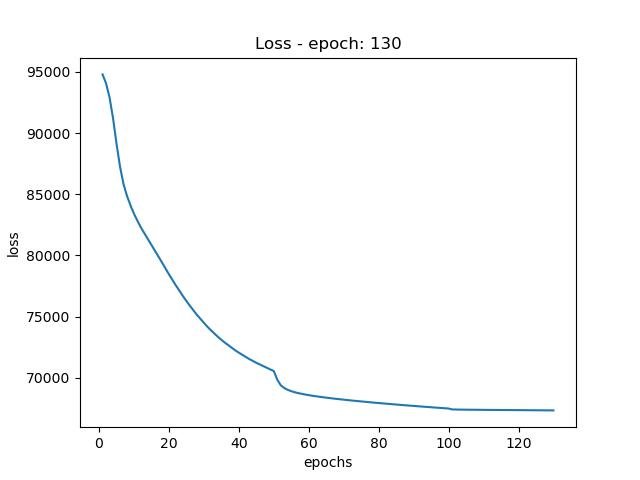
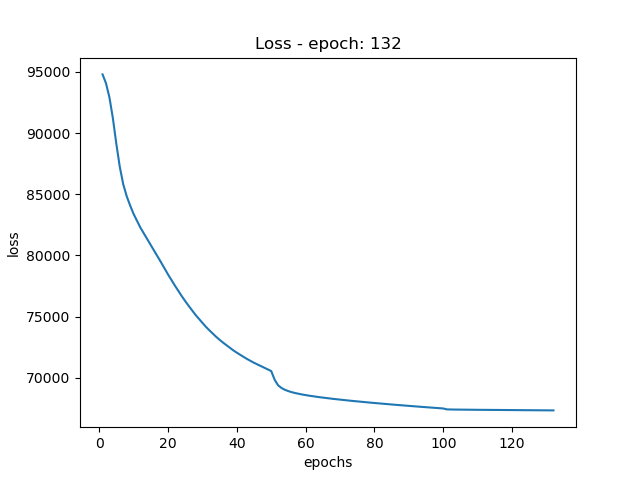
pos loss

diff --git a/trainer/trainer.py b/trainer/trainer.py
@@ -95,8 +95,8 @@ def scale_invariant_signal_distortion_ratio(preds: Tensor, target: Tensor, zero_
 
     val = (torch.sum(target_scaled ** 2, dim=-1) + EPS) / (torch.sum(noise ** 2, dim=-1) + EPS)
     val = 10 * torch.log10(val)
-
-    return val
+    # print(val.shape)
+    return -val
 
 class Trainer(BaseTrainer):
     """
@@ -267,19 +267,6 @@ class Trainer(BaseTrainer):
             # should we mul with weights the result of loss?
             
             #coseparation_loss = 0
-            vec = torch.ones(predicted_masks.shape)
-
-            v = torch.ones((32, 1, 5, 5))
-
-            for idx in range(len(labels)-1, -1, -2):  
-                 if labels[idx] == 15:
-                    vec[idx] = torch.zeros(vec[idx].shape)
-                    #v[idx] = torch.zeros(v[idx].shape)
-                #if labels[idx] != 15:
-                    #predicted_masks[idx-1] += predicted_masks[idx]
-            #print(v.view(16, 2, 1, 5, 5))
-
-            vec = vec.to(self.model.device)
             
             # print("weights before")
             # print(weights.shape)
@@ -299,8 +286,8 @@ class Trainer(BaseTrainer):
 
             #coseparation_loss = 0
 
-            print("****audio phases shape****")
-            print(output["audio_phases"].shape)
+            # print("****audio phases shape****")
+            # print(output["audio_phases"].shape)
 
 
 
@@ -312,23 +299,45 @@ class Trainer(BaseTrainer):
             grid_unwarp = torch.from_numpy(warpgrid(B, stft_frame//2+1, pred_masks_.size(3), warp=False)).to(self.model.device)
             pred_masks_linear = F.grid_sample(pred_masks_, grid_unwarp).view(int(bs/2), 2, 512, 256)
             
-            print("pred_mask_linear shape")
-            print(pred_masks_linear.shape)
-            
-            print("mag mix shape")
-            print(mag_mix.shape)
             
             pred_mag = mag_mix * pred_masks_linear#.clone().detach().cpu().numpy() # [:, 0]
 
-            print("pred_mag shape")
-            print(pred_mag.shape)
+            # print("pred_mag shape")
+            # print(pred_mag.shape)
             
             # spec = pred_mag.astype(np.complex) * np.exp(1j*phase_mix)
             spec = asteroid_filterbanks.transforms.from_magphase(pred_mag, phase_mix, dim = -2)
 
+            vec = torch.ones(32, 1, 1024, 256)
+
+            for idx in range(len(labels)-1, -1, -2):  
+                 if labels[idx] == 15:
+                    vec[idx] = torch.zeros(vec[idx].shape)
+            
+            vec = vec.to(self.model.device)
+            vec = vec.view(16, 2, 1024, 256)
+            spec = spec * vec
+            # print(spec)
+            spec = spec.view(16, 2, 2, 512, 256)
+            spec = torch.sum(spec, axis=1)#.view(16, 512, 256, 2)
+            spec = torch.swapaxes(spec, 1, 3)
+            spec = torch.swapaxes(spec, 1, 2)
+
+
+                    
+
+            # a = torch.randn(6)
+            # print(a)
+            # print(a.view(2, 3))
+
+            # #spec = torch.view_as_real(spec)
+            # print(spec.shape)
+
             # spec = spec.view(bs/2, 2, 512, 256)
-            audio = torch.istft(spec, hop_length=256, center=True, length=65535, n_fft=)              #.tolist()#, rate)
-            pred_audio = np.clip(audio, -1., 1.)
+            audio = torch.istft(spec, hop_length=256, center=True, length=65535, n_fft=1022)              #.tolist()#, rate)
+            # print(audio.shape)
+
+            pred_audio = torch.clamp(audio, -1., 1.)
 
 
 
@@ -342,19 +351,30 @@ class Trainer(BaseTrainer):
             grid_unwarp = torch.from_numpy(warpgrid(B, stft_frame//2+1, ground_masks_.size(3), warp=False)).to(self.model.device)
             ground_masks_linear = F.grid_sample(ground_masks_, grid_unwarp).view(int(bs/2), 2, 512, 256)
 
-            ground_mag = mag_mix * ground_masks_linear.cpu().numpy() # [:, 0]
+            ground_mag = mag_mix * ground_masks_linear#.cpu().numpy() # [:, 0]
 
-            spec = ground_mag.astype(np.complex) * np.exp(1j*phase_mix)
+            # spec = ground_mag.astype(np.complex) * np.exp(1j*phase_mix)
+            spec = asteroid_filterbanks.transforms.from_magphase(ground_mag, phase_mix, dim = -2).view(16, 2, 2, 512, 256)
+            spec = spec[:, 0, :, :, :]
+            spec = torch.swapaxes(spec, 1, 3)
+            spec = torch.swapaxes(spec, 1, 2)
+
             
-            ground_audio = librosa.istft(spec, hop_length=256, center=True, length=65535)#.tolist()#, rate)
-            ground_audio = np.clip(ground_audio, -1., 1.)
+            # ground_audio = librosa.istft(spec, hop_length=256, center=True, length=65535)#.tolist()#, rate)
+            # ground_audio = np.clip(ground_audio, -1., 1.)
+            
+            ground_audio = torch.istft(spec, hop_length=256, center=True, length=65535, n_fft=1022)              #.tolist()#, rate)
+            # print(audio.shape)
+
+            ground_audio = torch.clamp(ground_audio, -1., 1.)
             
             
             
-            print("pred audio shape:")
-            print(pred_audio.shape)
-            print("ground audio shape:")
-            print(ground_audio.shape)
+            # print("pred audio shape:")
+            # print(pred_audio.shape)
+            # print("ground audio shape:")
+            # print(ground_audio.shape)
+
             # print("ground audio shape:")
             # print(output["ground_audios"].shape)
 
@@ -362,17 +382,17 @@ class Trainer(BaseTrainer):
 
             #ground_audio = output["ground_audios"].view(int(bs/2), 2, 512, 256)
 
-            ground_audio = ground_audio[:, 0, :]
+            #ground_audio = ground_audio[:, 0, :]
 
-            print("ground audio np shape:")
-            print(ground_audio.shape)
+            # print("ground audio np shape:")
+            # print(ground_audio.shape)
 
-            pred_audio = np.sum(pred_audio, axis=1)
+            #pred_audio = np.sum(pred_audio, axis=1)
             
-            print("pred audio np shape:")
-            print(pred_audio.shape)
+            # print("pred audio np shape:")
+            # print(pred_audio.shape)
 
-            coseparation_loss = scale_invariant_signal_distortion_ratio(preds=T.ToTensor(requires_grad_=True)(pred_audio), target=T.ToTensor(requires_grad_=True)(ground_audio))
+            coseparation_loss = scale_invariant_signal_distortion_ratio(preds=pred_audio, target=ground_audio)
 
             '''
             coseparation_loss = 0
@@ -394,6 +414,7 @@ class Trainer(BaseTrainer):
 
             lamda = 0.01
             #consistency_loss = loss.ce_loss(pred_labels, Variable(labels, requires_grad=False)) * lamda
+            coseparation_loss = coseparation_loss.mean()
             sum_loss = coseparation_loss #+ consistency_loss
             
             self.optimizer.zero_grad()
@@ -572,17 +593,59 @@ class Trainer(BaseTrainer):
                 # coseparation_loss = self.criterion((predicted_masks * vec).view(int(bs / 2), 2, 1, 256, 256), (ground_masks * vec).view(int(bs / 2), 2, 1, 256, 256))
                 vec = torch.ones(predicted_masks.shape)
 
-                for idx in range(len(labels)-1, -1, -2):  
-                    if labels[idx] == 15:
-                        vec[idx] = torch.zeros(vec[idx].shape)
+                # for idx in range(len(labels)-1, -1, -2):  
+                #     if labels[idx] == 15:
+                #         vec[idx] = torch.zeros(vec[idx].shape)
                     #if labels[idx] != 15:
                         #predicted_masks[idx-1] += predicted_masks[idx]
                 
                 vec = vec.to(self.model.device)
                 weights = weights.view((int(bs / 2), 2, 1, 256, 256))
-                coseparation_loss = self.criterion((predicted_masks * vec).view(int(bs / 2), 2, 1, 256, 256), (ground_masks * vec).view(int(bs / 2), 2, 1, 256, 256), weights)
+                #coseparation_loss = self.criterion((predicted_masks * vec).view(int(bs / 2), 2, 1, 256, 256), (ground_masks * vec).view(int(bs / 2), 2, 1, 256, 256), weights)
+                
+                phase_mix = output['audio_phases'].view(int(bs/2), 2, 512, 256)#.detach().cpu().numpy()     # [:, 0]
+                mag_mix = output['original_mixed_audio'].view(int(bs/2), 2, 512, 256)#.detach().cpu().numpy()     # [:, 0]
+                B = bs#mag_mix.shape[0]
+                stft_frame = 1022
+                pred_masks_ = output['predicted_masks']
+                grid_unwarp = torch.from_numpy(warpgrid(B, stft_frame//2+1, pred_masks_.size(3), warp=False)).to(self.model.device)
+                pred_masks_linear = F.grid_sample(pred_masks_, grid_unwarp).view(int(bs/2), 2, 512, 256)
+                
+                pred_mag = mag_mix * pred_masks_linear#.clone().detach().cpu().numpy() # [:, 0]
+
+                spec = asteroid_filterbanks.transforms.from_magphase(pred_mag, phase_mix, dim = -2).view(16, 2, 2, 512, 256)
+                spec = torch.sum(spec, axis=1)#.view(16, 512, 256, 2)
+                spec = torch.swapaxes(spec, 1, 3)
+                spec = torch.swapaxes(spec, 1, 2)
+
+                audio = torch.istft(spec, hop_length=256, center=True, length=65535, n_fft=1022)              #.tolist()#, rate)
+
+                pred_audio = torch.clamp(audio, -1., 1.)
+
+
+                ground_masks_ = output['ground_masks']
+                grid_unwarp = torch.from_numpy(warpgrid(B, stft_frame//2+1, ground_masks_.size(3), warp=False)).to(self.model.device)
+                ground_masks_linear = F.grid_sample(ground_masks_, grid_unwarp).view(int(bs/2), 2, 512, 256)
+
+                ground_mag = mag_mix * ground_masks_linear#.cpu().numpy() # [:, 0]
+
+                # spec = ground_mag.astype(np.complex) * np.exp(1j*phase_mix)
+                spec = asteroid_filterbanks.transforms.from_magphase(ground_mag, phase_mix, dim = -2).view(16, 2, 2, 512, 256)
+                spec = spec[:, 0, :, :, :]
+                spec = torch.swapaxes(spec, 1, 3)
+                spec = torch.swapaxes(spec, 1, 2)
+
+                
+                ground_audio = torch.istft(spec, hop_length=256, center=True, length=65535, n_fft=1022)              #.tolist()#, rate)
+
+                ground_audio = torch.clamp(ground_audio, -1., 1.)
                 
                 
+
+
+                coseparation_loss = scale_invariant_signal_distortion_ratio(preds=pred_audio, target=ground_audio)
+
+                    
                 lost_loss1 += [coseparation_loss.cpu().detach().numpy()]
 
 
